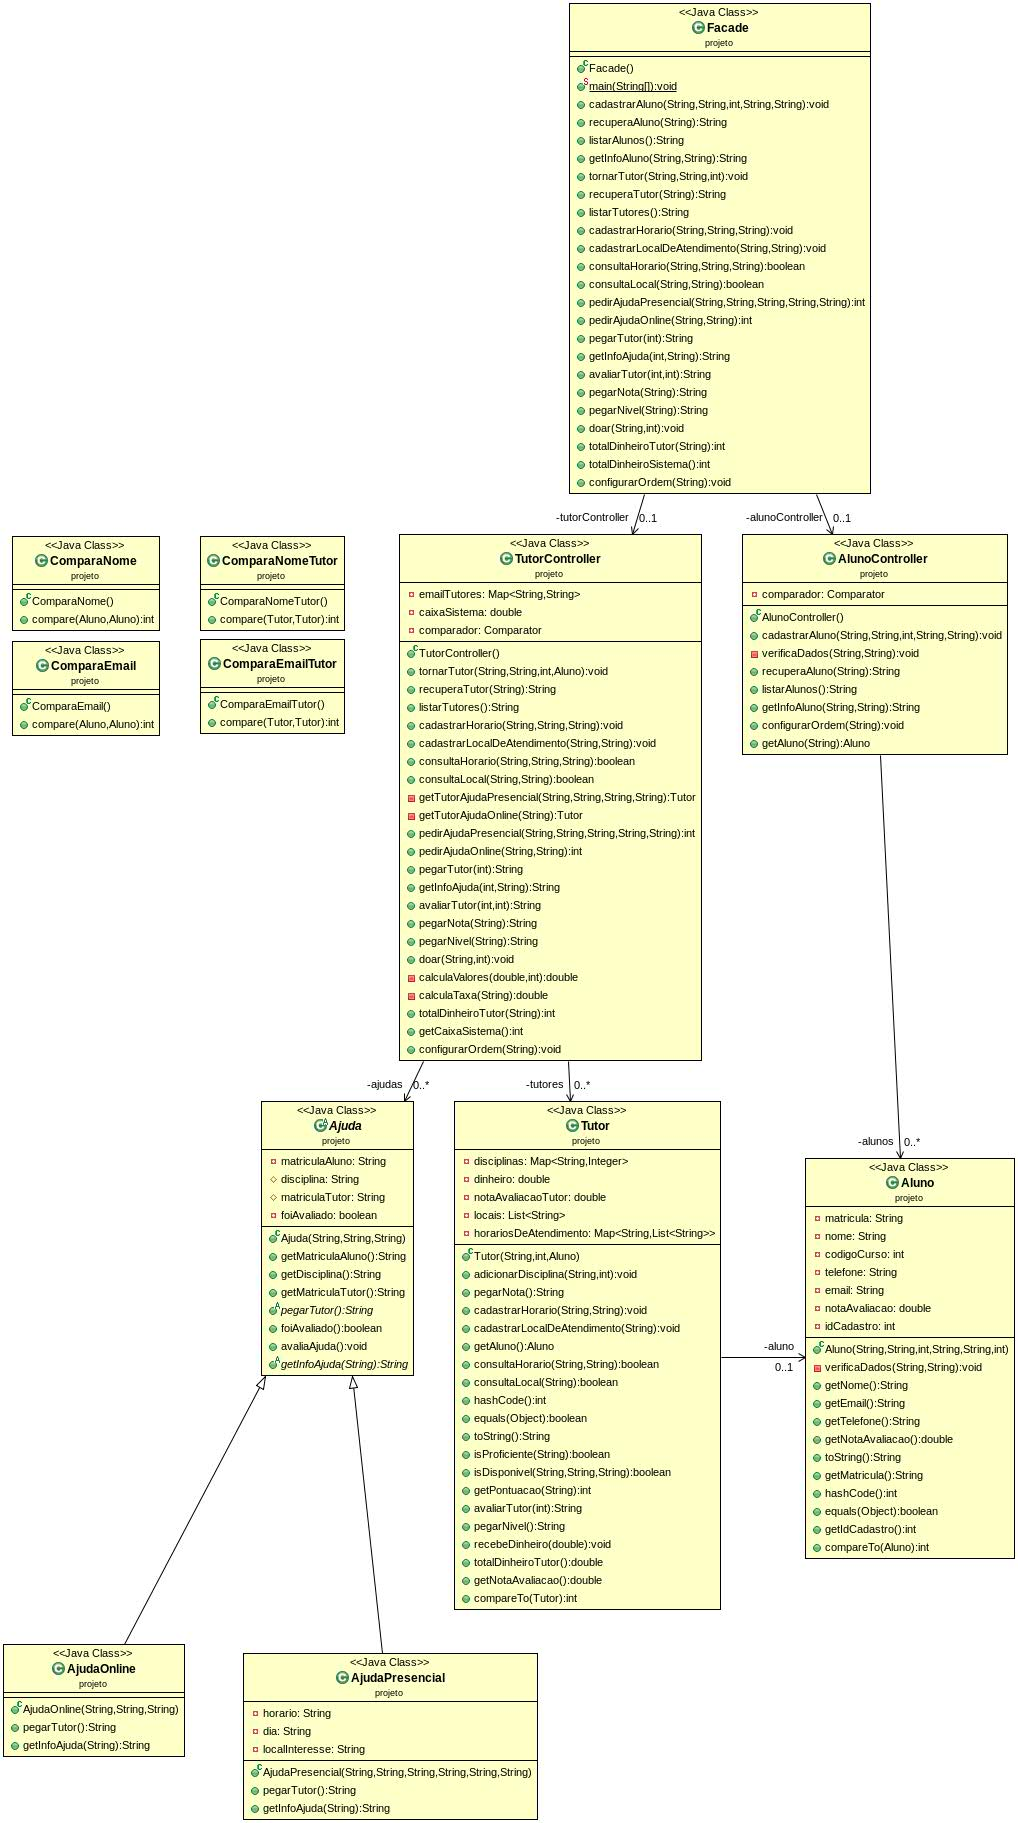
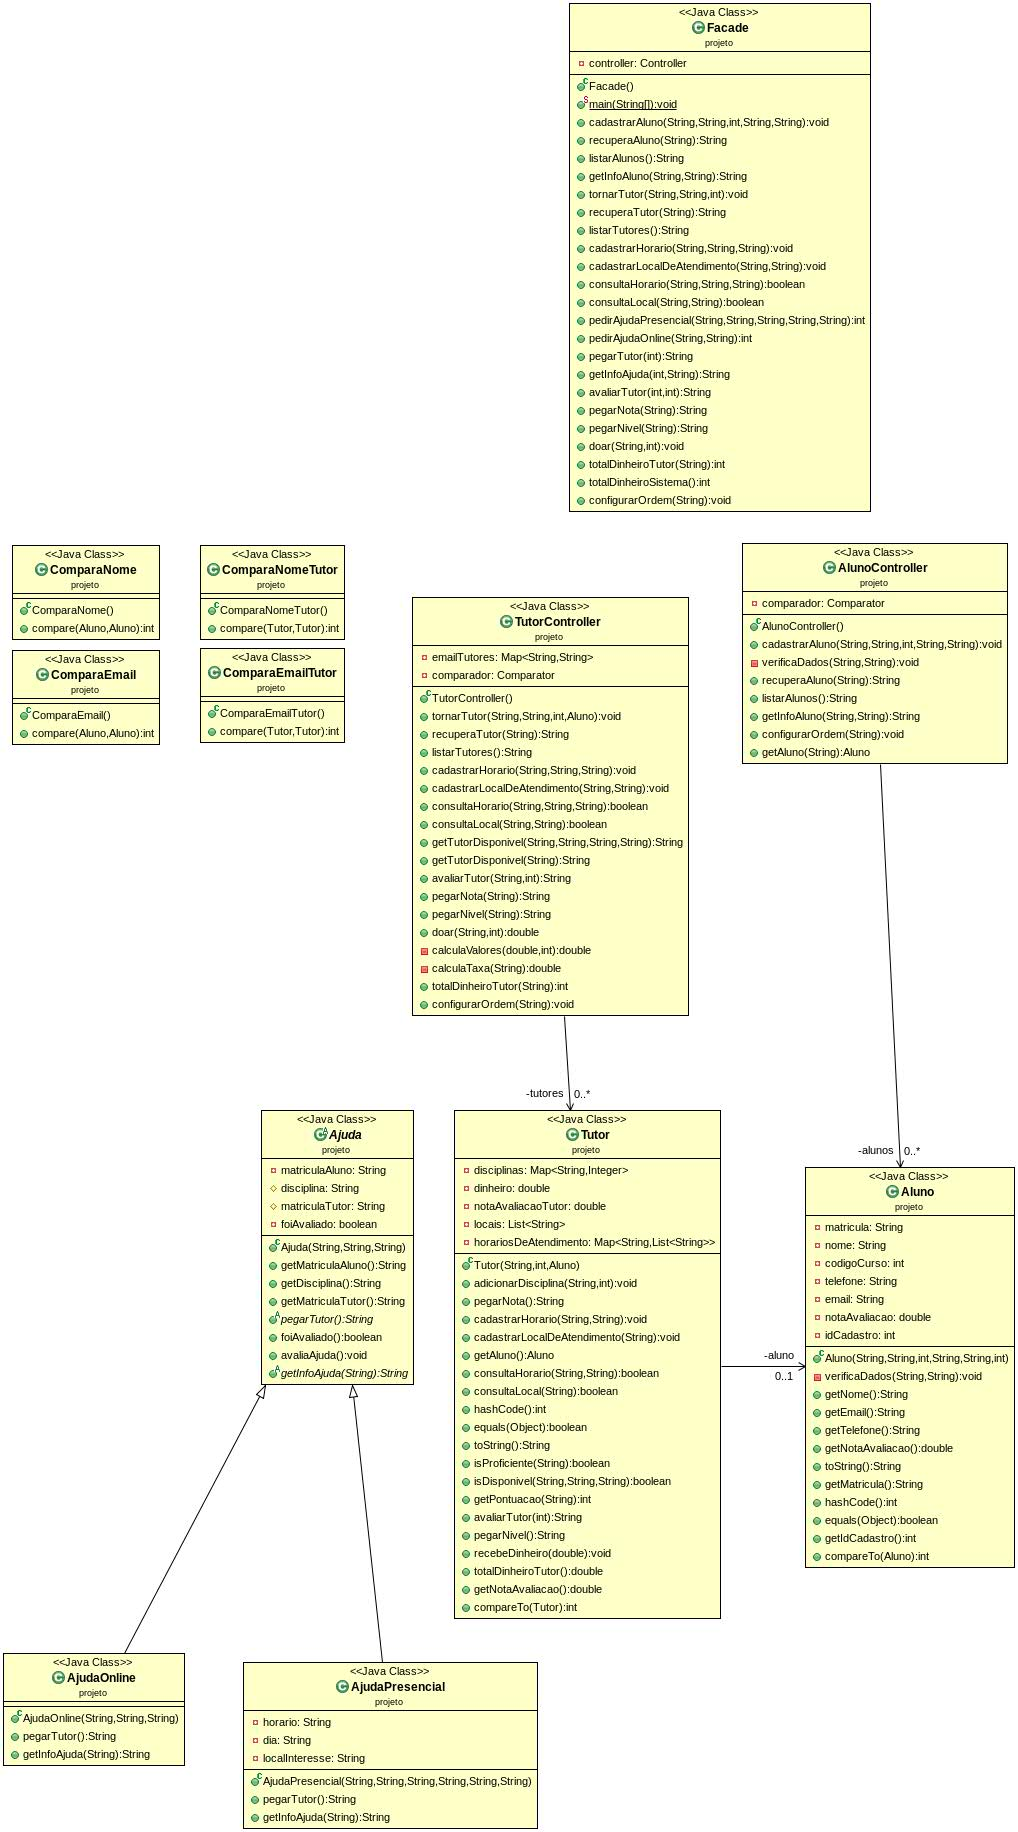
Reorganização do Design Finalizada, testes EasyAccept passando

diff --git a/src/projeto/TutorController.java b/src/projeto/TutorController.java
@@ -27,10 +27,6 @@ public class TutorController {
 	 * Mapa dos e-mails dos Tutores cadastrados para suas matrículas.
 	 */
 	private Map<String, String> emailTutores;
-	
-	private List<Ajuda> ajudas;
-	
-	private double caixaSistema;
 
 	private Comparator comparador;
 	/**
@@ -39,7 +35,6 @@ public class TutorController {
 	public TutorController() {
 		this.tutores = new HashMap<String, Tutor>();
 		this.emailTutores = new HashMap<String, String>();
-		this.ajudas = new ArrayList<Ajuda>();
 		this.comparador = new ComparaNomeTutor();
 	}
 
@@ -204,8 +199,20 @@ public class TutorController {
 	 * @param localInteresse local de interesse para a ajuda
 	 * @return Objeto Tutor com o tutor adequado ou null, caso não encontre
 	 */
-	public Tutor getTutorDisponivel(String disciplina, String horario, String dia, String localInteresse) {
-
+	public String getTutorDisponivel(String disciplina, String horario, String dia, String localInteresse) {
+		if (disciplina.trim().equals("")) {
+			throw new IllegalArgumentException("Erro no pedido de ajuda presencial: disciplina nao pode ser vazio ou em branco");
+		}
+		if (horario.trim().equals("")) {
+			throw new IllegalArgumentException("Erro no pedido de ajuda presencial: horario nao pode ser vazio ou em branco");
+		}
+		if (dia.trim().equals("")) {
+			throw new IllegalArgumentException("Erro no pedido de ajuda presencial: dia nao pode ser vazio ou em branco");
+		}
+		if (localInteresse.trim().equals("")) {
+			throw new IllegalArgumentException("Erro no pedido de ajuda presencial: local de interesse nao pode ser vazio ou em branco");
+		}
+		
 		Tutor tutorEscolhido = null;
 
 		for (Tutor tutor : tutores.values()) {
@@ -223,7 +230,7 @@ public class TutorController {
 				}
 			}
 		}
-		return tutorEscolhido;
+		return tutorEscolhido.getAluno().getMatricula();
 	}
 
 	/**
@@ -232,7 +239,10 @@ public class TutorController {
 	 * @param disciplina disciplina da ajuda solicitada
 	 * @return Objeto Tutor com o tutor adequado ou null, caso não encontre
 	 */
-	public Tutor getTutorDisponivel(String disciplina) {
+	public String getTutorDisponivel(String disciplina) {
+		if (disciplina.trim().equals("")) {
+			throw new IllegalArgumentException("Erro no pedido de ajuda online: disciplina nao pode ser vazio ou em branco");
+		}
 		Tutor tutorEscolhido = null;
 
 		for (Tutor tutor : tutores.values()) {
@@ -252,7 +262,7 @@ public class TutorController {
 
 		}
 
-		return tutorEscolhido;
+		return tutorEscolhido.getAluno().getMatricula();
 	}
 
 	/**
@@ -293,7 +303,7 @@ public class TutorController {
 	 * @param matriculaTutor
 	 * @param totalCentavos
 	 */
-	public void doar(String matriculaTutor, int totalCentavos) {
+	public double doar(String matriculaTutor, int totalCentavos) {
 		
 		if (matriculaTutor.trim().equals("") || matriculaTutor == null) {
 			throw new IllegalArgumentException("Erro na doacao para tutor: matriculaTutor nao pode ser vazio ou nulo");
@@ -308,7 +318,7 @@ public class TutorController {
 		double taxa = calculaTaxa(matriculaTutor);
 		double dinheiroTutor = calculaValores(taxa, totalCentavos);
 		this.tutores.get(matriculaTutor).recebeDinheiro(dinheiroTutor);
-		this.caixaSistema += totalCentavos - dinheiroTutor;
+		return totalCentavos - dinheiroTutor;
 	}
 	/**
 	 * Método que calcula o valor a ser recebido pelo tutor.
@@ -354,14 +364,6 @@ public class TutorController {
 			throw new IllegalArgumentException("Erro na consulta de total de dinheiro do tutor: Tutor nao encontrado");
 		}
 		return (int) this.tutores.get(this.emailTutores.get(emailTutor)).totalDinheiroTutor();     
-	}
-	
-	/**
-	 * Método que retorna o valor inteiro do caixa do sistema de tutores.
-	 * @return
-	 */
-	public int getCaixaSistema() {
-		return (int)caixaSistema;
 	}
 	
 	public void configurarOrdem(String atributo) {

diff --git a/src/projeto/Controller.java b/src/projeto/Controller.java
@@ -25,12 +25,15 @@ public class Controller {
 	 */
 	private AjudaController ajudaController;
 	
+	private double caixaSistema;
+	
 	/**
 	 * Construtor da Classe Facade que inicializa os controllers.
 	 */
 	public Controller() {
 		this.alunoController = new AlunoController();
 		this.tutorController = new TutorController();
+		this.ajudaController = new AjudaController();
 	}
 	
 	/**
@@ -170,7 +173,7 @@ public class Controller {
 	 * @return Inteiro que representa o ID da ajuda
 	 */
 	public int pedirAjudaPresencial(String matrAluno, String disciplina, String horario, String dia, String localInteresse) {
-		return this.ajudaController.pedirAjudaPresencial(matrAluno, disciplina, horario, dia, localInteresse, this.tutorController.getTutorDisponivel(disciplina, horario, dia, localInteresse).getAluno().getMatricula());
+		return this.ajudaController.pedirAjudaPresencial(matrAluno, disciplina, horario, dia, localInteresse, this.tutorController.getTutorDisponivel(disciplina, horario, dia, localInteresse));
 	}
 
 	/**
@@ -182,7 +185,7 @@ public class Controller {
 	 * @return Inteiro que representa o ID da ajuda
 	 */
 	public int pedirAjudaOnline(String matrAluno, String disciplina) {
-		return this.ajudaController.pedirAjudaOnline(matrAluno, disciplina, this.tutorController.getTutorDisponivel(disciplina).getAluno().getMatricula());
+		return this.ajudaController.pedirAjudaOnline(matrAluno, disciplina, this.tutorController.getTutorDisponivel(disciplina));
 	}
 
 	/**
@@ -218,6 +221,12 @@ public class Controller {
 	 * @return String com a nova média do tutor.
 	 */
 	public String avaliarTutor(int idAjuda, int nota) {
+		if (nota < 0) {
+			throw new IllegalArgumentException("Erro na avaliacao de tutor: nota nao pode ser menor que 0");
+		}
+		if (nota > 5) {
+			throw new IllegalArgumentException("Erro na avaliacao de tutor: nota nao pode ser maior que 5");
+		}
 		return this.tutorController.avaliarTutor(this.ajudaController.avaliaAjuda(idAjuda), nota);
 	}
 
@@ -250,7 +259,7 @@ public class Controller {
 	 */
 
 	public void doar(String matriculaTutor, int totalCentavos) {
-		this.tutorController.doar(matriculaTutor, totalCentavos);
+		this.caixaSistema += this.tutorController.doar(matriculaTutor, totalCentavos);
 	}
 	
 	/**
@@ -268,7 +277,7 @@ public class Controller {
 	 * @return
 	 */
 	public int totalDinheiroSistema() {
-		return this.tutorController.getCaixaSistema();
+		return (int) this.caixaSistema;
 	}
 	
 	

diff --git a/src/projeto/Facade.java b/src/projeto/Facade.java
@@ -260,7 +260,7 @@ public class Facade {
 	 * @return
 	 */
 	public int totalDinheiroSistema() {
-		return this.controller.getCaixaSistema();
+		return this.controller.totalDinheiroSistema();
 	}
 	
 	
